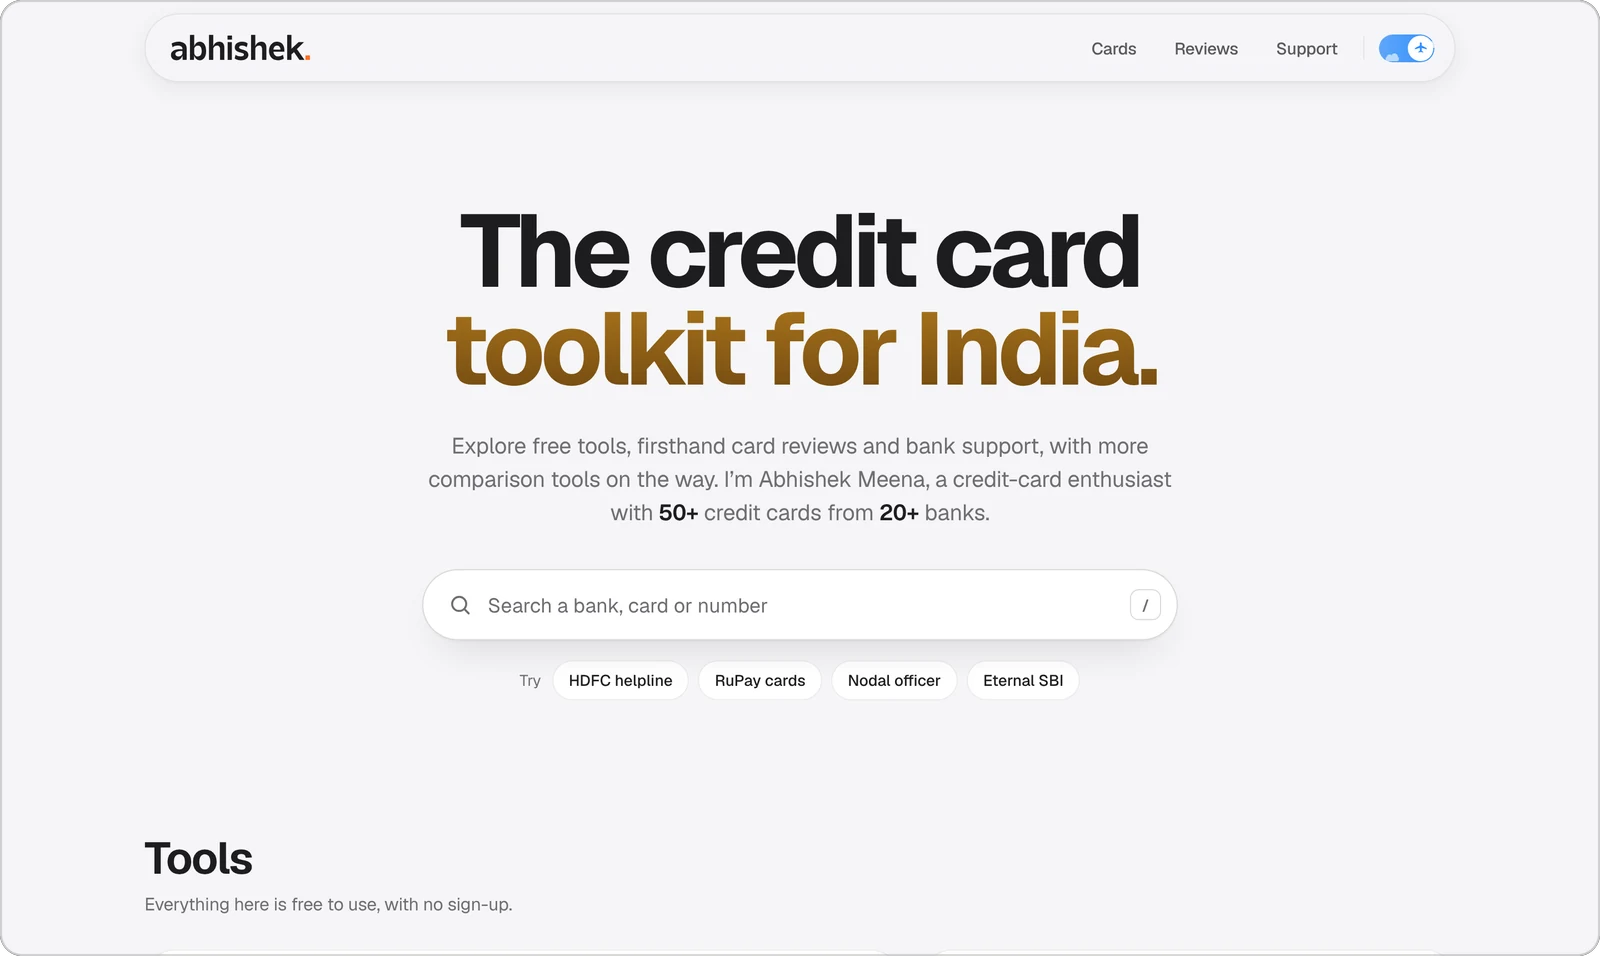
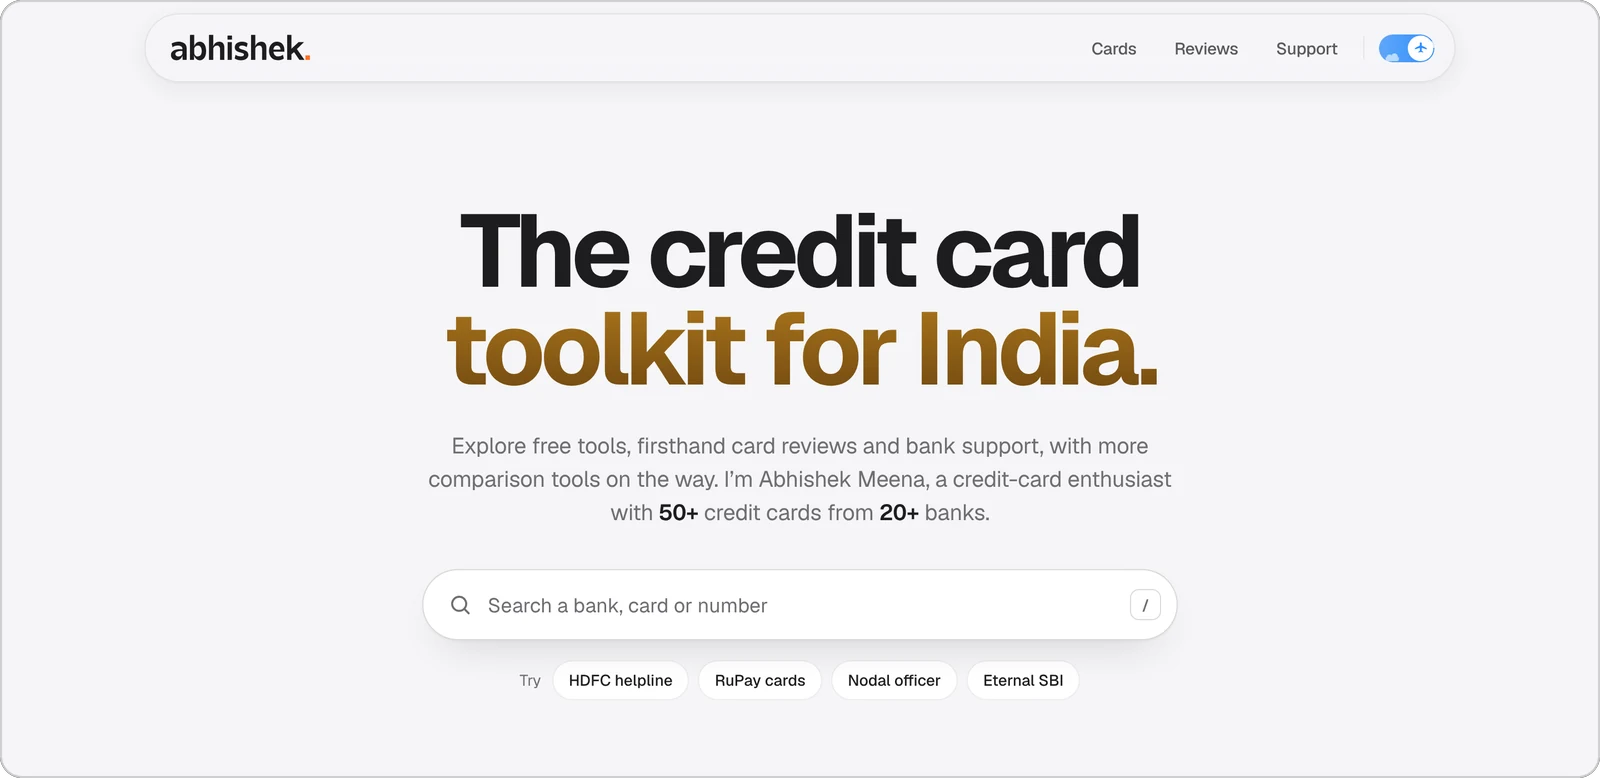
Tighten the homepage preview crop and unlink localhost
Claude-Session: https://claude.ai/code/session_01BqJZRuPbyaVyLyvJWoiXJ5

diff --git a/README.md b/README.md
@@ -104,7 +104,7 @@ cd abhishek-credit-cards
 pnpm dev        # or: node preview-server.mjs
 ```
 
-It runs on [localhost:3000](http://localhost:3000). Locally, `/` opens the card portfolio and the homepage is at [`/home`](http://localhost:3000/home); production routing and headers from `vercel.json` are not applied.
+It runs at `http://localhost:3000`. Locally, `/` opens the card portfolio and the homepage is at `/home`; production routing and headers from `vercel.json` are not applied.
 
 Only changes to the reviews grid in `src/` need dependencies and a rebuild:
 
